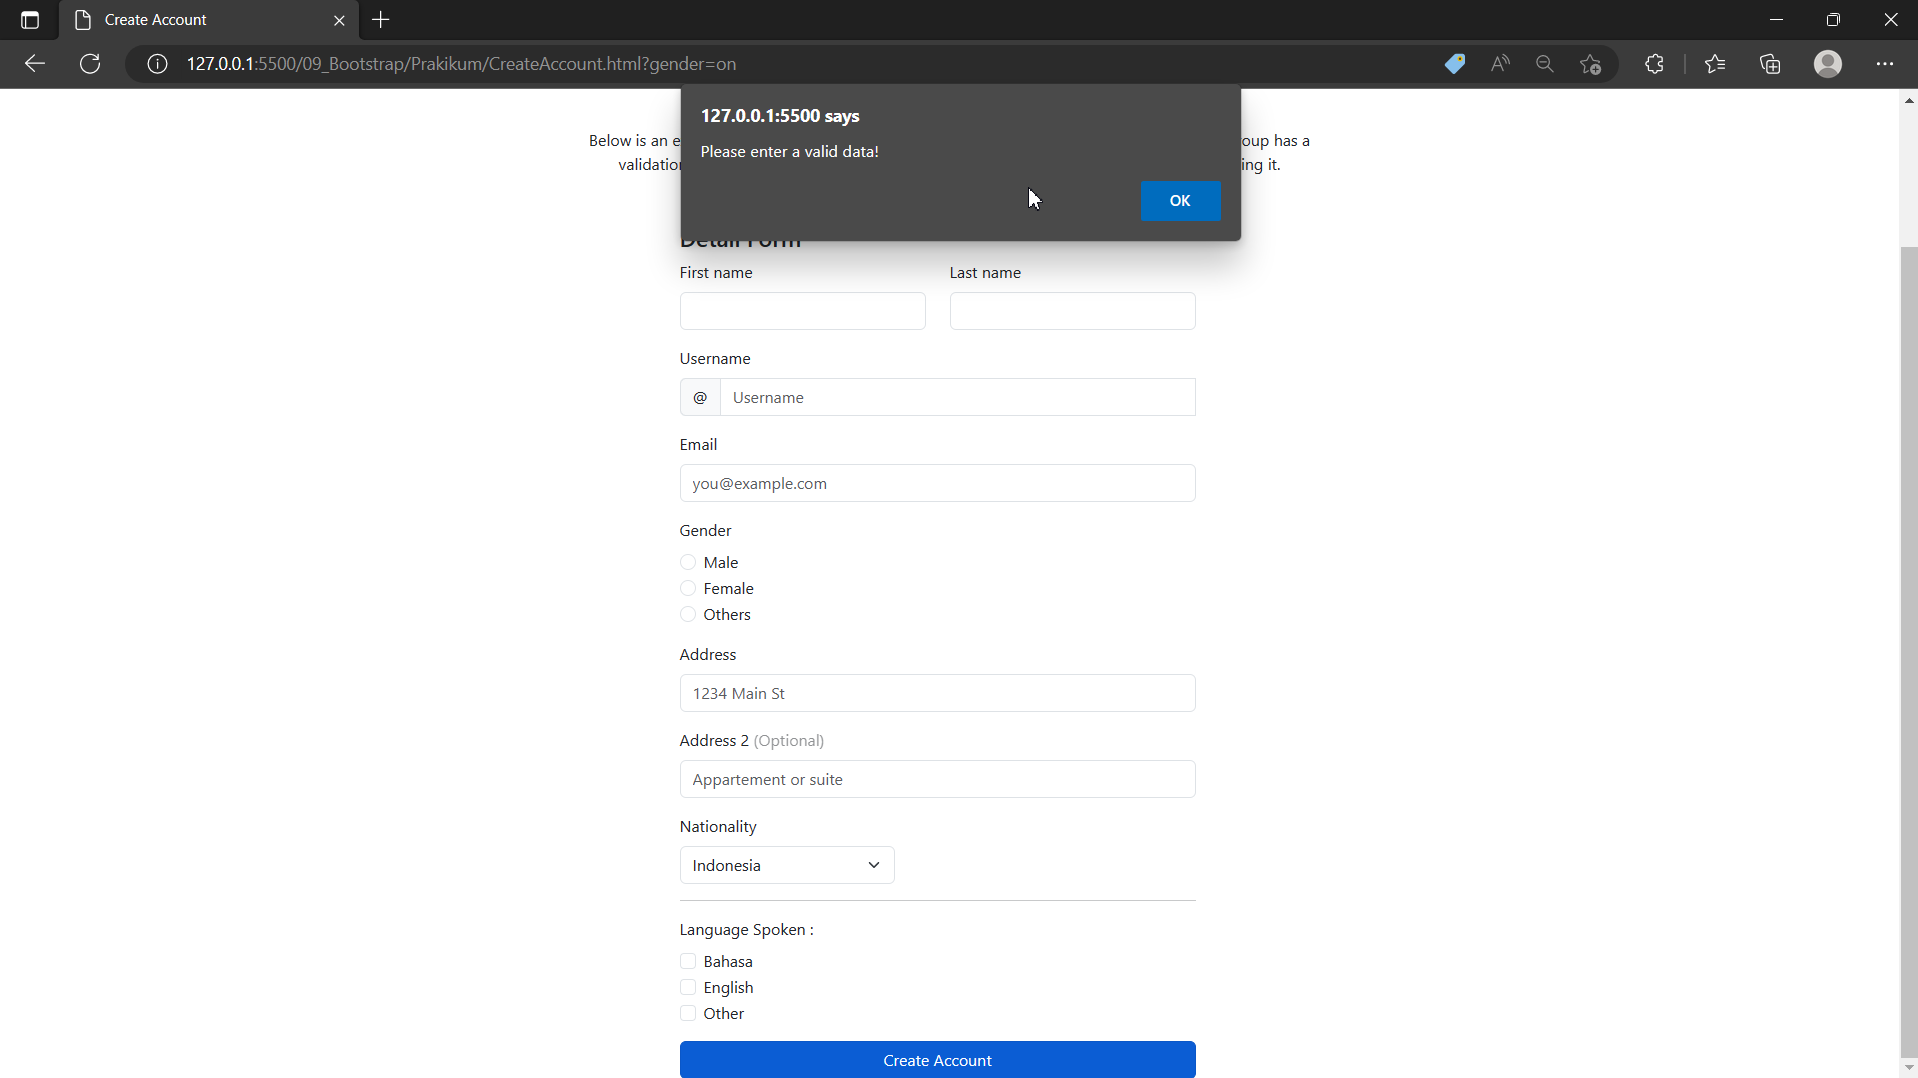
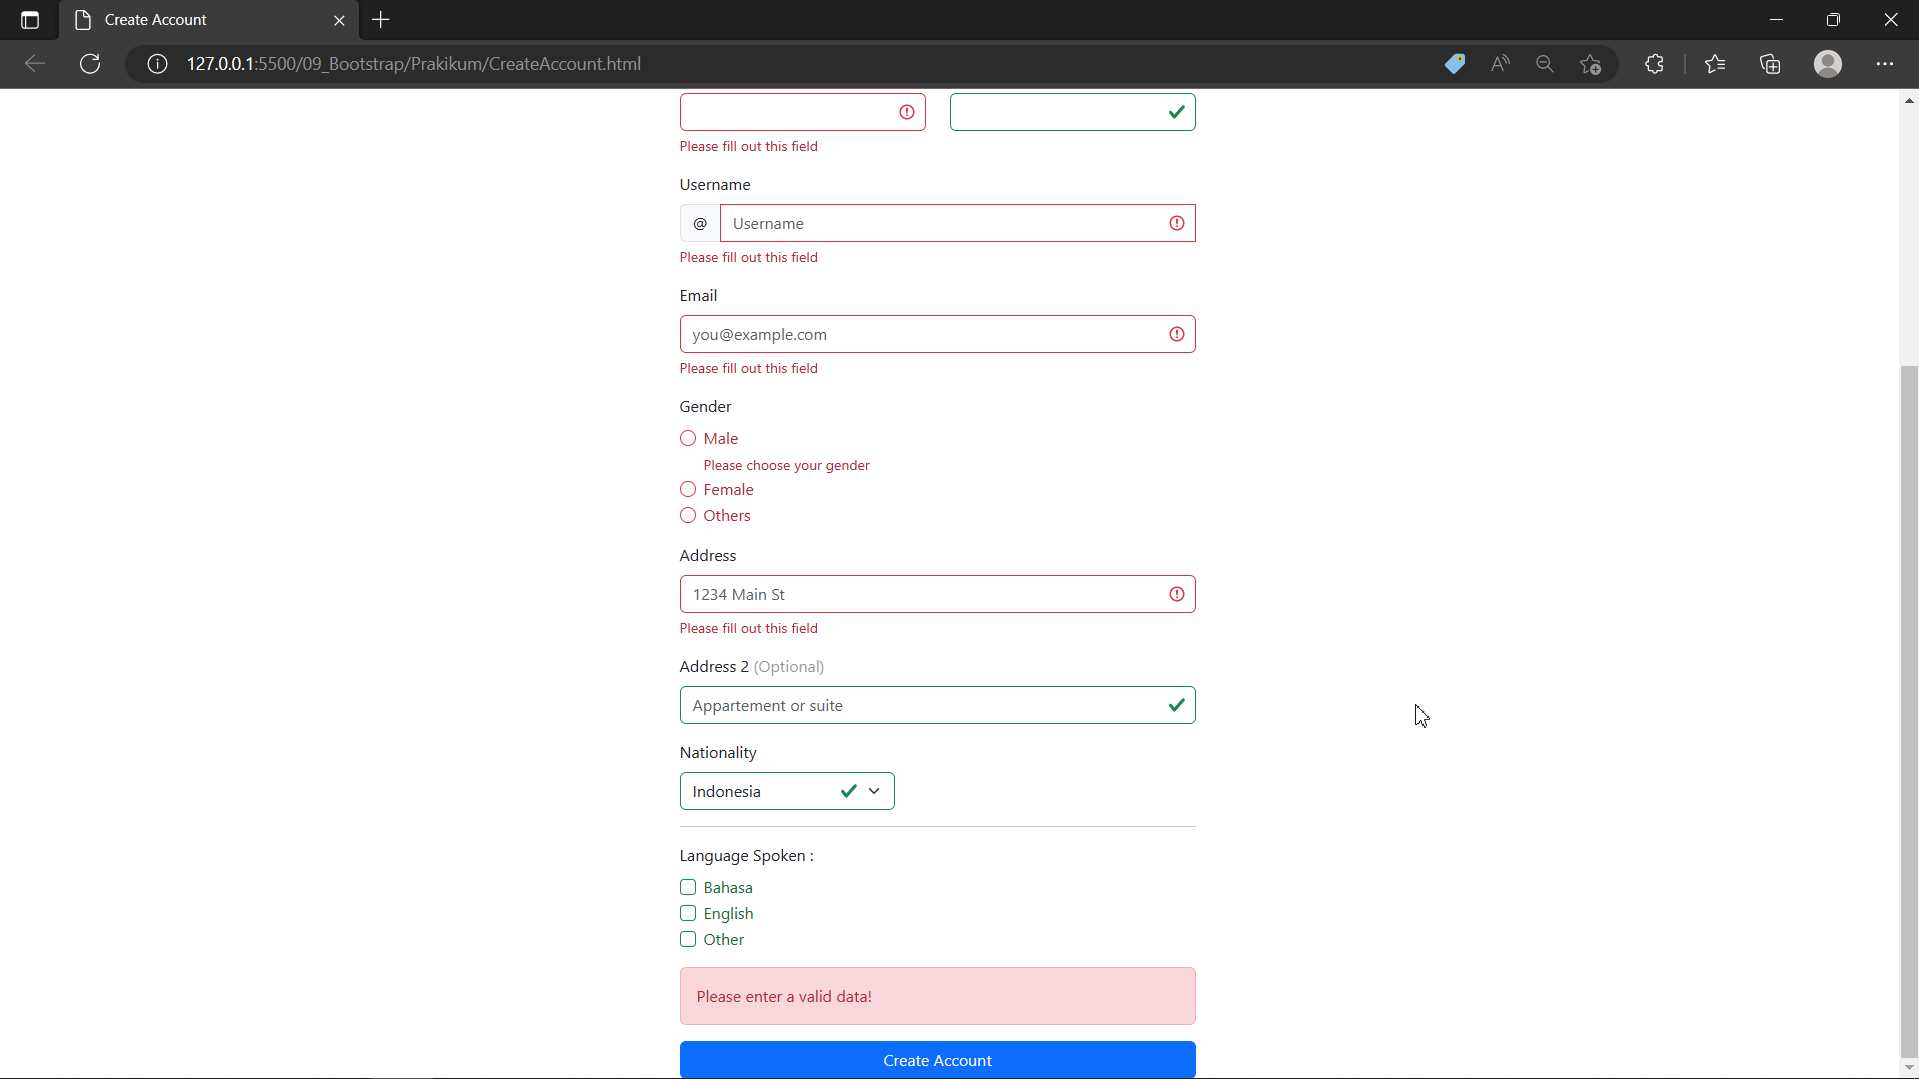
Resume Materi Bootstrap

diff --git a/09_Bootstrap/Prakikum/CreateAccount.html b/09_Bootstrap/Prakikum/CreateAccount.html
@@ -52,7 +52,7 @@
                             <div class="row justify-content-center">
                                 <div class="col-5">
                                     <div class="col">
-                                        <form class="justify-content-end needs-validation" novalidate onsubmit="validasi()">
+                                        <form class="justify-content-end needs-validation" novalidate id="form">
                                             <h2 style="font-size: 23px;">Detail Form</h2>
                                             <!--  Name -->
                                             <div class="mb-3">
@@ -181,6 +181,10 @@
                                                   </div>
                                             </div>
 
+                                            <div class="alert alert-dismissible fade d-none" role="alert" id="alertForm">
+                                                <button type="button" class="btn-close" data-bs-dismiss="alert" aria-label="Close"></button>
+                                            </div>
+
                                             <div class="col-auto">
                                                 <button type="submit" class="btn btn-primary w-100" data-bs-toggle="modal" data-bs-target="#submit">Create Account</button>
                                             </div>
@@ -215,20 +219,31 @@
           })()
 
           
-            function validasi(){
+          document.getElementById('form').addEventListener('submit', function (e) {
+                e.preventDefault();
                 const firstname = document.getElementById('firstname').value;
                 const lastname = document.getElementById('lastname').value;
                 const username = document.getElementById('username').value;
                 const email = document.getElementById('email').value;
                 const address = document.getElementById('address').value;
+                const alertForm = document.getElementById('alertForm');
 
                 if( firstname != '' && lastname != '' && username != '' && email != '' && address != '' ){
-                  return 
-                } else {
-                  alert('Please enter a valid data!')
+                alertForm.innerHTML = "Account created successfully";
+                alertForm.classList.remove('d-none');
+                alertForm.classList.add('show');
+                alertForm.classList.remove('alert-danger');
+                alertForm.classList.add('alert-success');
+                } 
+                else {
+                alertForm.innerHTML = "Please enter a valid data!";
+                alertForm.classList.remove('d-none');
+                alertForm.classList.add('show');
+                alertForm.classList.remove('alert-success');
+                alertForm.classList.add('alert-danger');
                 }
             }
+          )
         </script>
-
     </body>
 </html>
